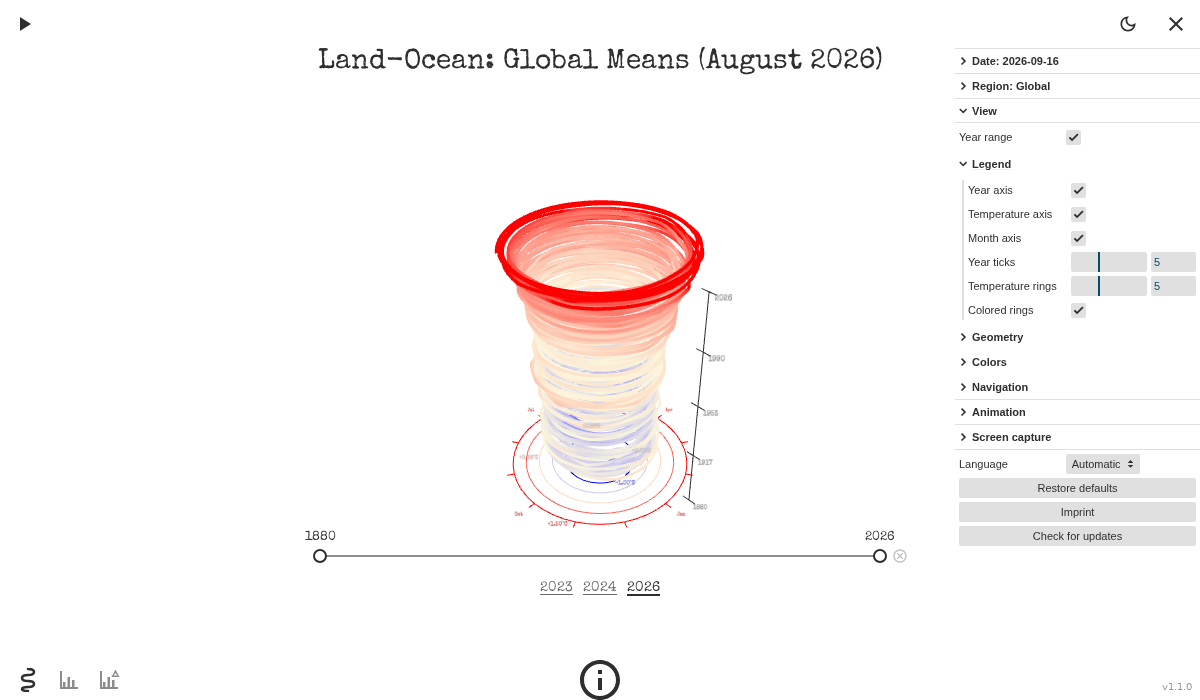
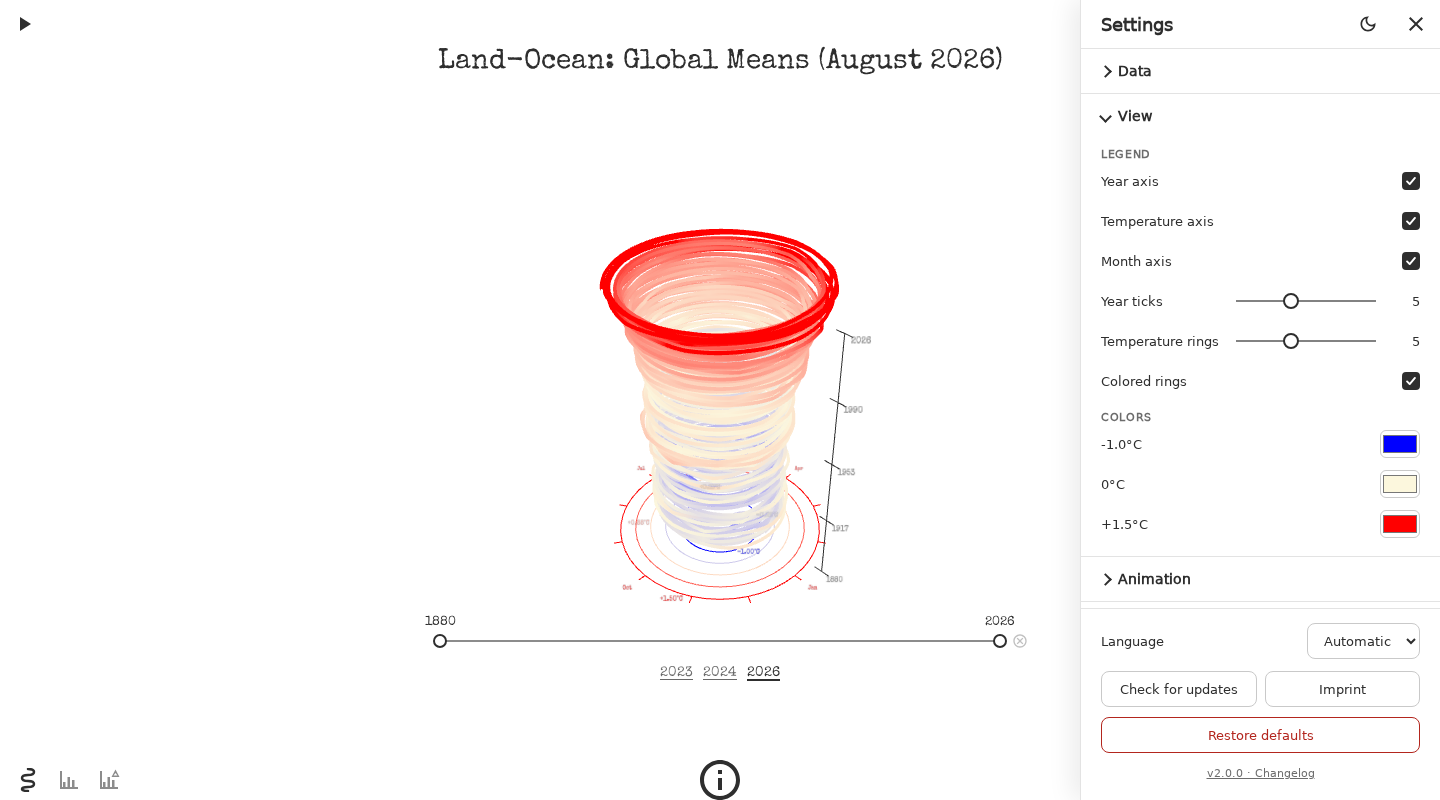
docs: README for the new settings, screenshots retaken; version 2.0.0 (v2.0.0)
Climate Helix 2.0: the native settings panel is complete. The README
gets a Settings section with a picture of the panel on a phone and
describes the new sections instead of the former lil-gui menus. All
screenshots are retaken, the new settings picture included; the legend
picture is wider so the panel does not cover the title.

diff --git a/screenshots/readme.spec.ts b/screenshots/readme.spec.ts
@@ -30,11 +30,21 @@ test('helix', async ({ page }) => {
 });
 
 test('legend settings', async ({ page }) => {
-    await page.setViewportSize({ width: 1200, height: 700 });
+    await page.setViewportSize({ width: 1440, height: 800 });
     await openApp(page);
     await openSettings(page);
+    // Data is open by default; closed, the legend and the colors fit.
+    await page.locator('#settings-panel summary', { hasText: 'Data' }).click();
     await openSection(page, 'View');
     await shoot(page, 'climate-helix-legend');
+});
+
+test('settings on a phone', async ({ page }) => {
+    await page.setViewportSize(PHONE);
+    await openApp(page);
+    await openSettings(page);
+    await openSection(page, 'Animation');
+    await shoot(page, 'climate-helix-settings');
 });
 
 test('charts', async ({ page }) => {

diff --git a/README.md b/README.md
@@ -14,11 +14,23 @@ The data starts in 1880 and, in the newest bundled snapshot, runs until August 2
 
 The use of [TrackballControls](https://threejs.org/docs/#examples/en/controls/TrackballControls) makes it possible to easily navigate through the scene, by moving around a virtual camera: drag with the left mouse button (or one finger) to rotate the helix freely in any direction, including end over end, zoom with the mouse wheel (or a pinch), and pan with the right mouse button (or two fingers). A double-click returns to the initial view. The ***Advanced*** section of the settings panel sets, under Navigation, the **Rotation speed** and **Inertia**: with inertia, the helix keeps turning for a moment after a drag; without it, it stops with the pointer.
 
-The controller UI (Icon in the upper right corner) provides options to configure the image. Not only can you choose, which region of the world you want to be visualized. With the ***View*** menu item you can show the year range slider and the legend axes, change the colors, and adjust the geometry and navigation; the ***Animation*** menu sets up the creation animation. With the ***Screen capture*** menu you can create images and download them to your computer.
+# Settings
+
+<img src="./src/images/climate-helix-settings.png" alt="Climate-helix settings on a phone" width="300">
+
+The gear icon in the upper right corner (or the `h` key) opens the settings panel: on the right side of the window, or full screen on a phone. Its sections open and close with a click on their title:
+
+* ***Data***: the snapshot and the region (Global, Northern and Southern Hemisphere).
+* ***View***: the legend around the helix and the helix colors.
+* ***Animation***: duration, loop and play on start of the creation animation.
+* ***Screen capture***: save the whole page or only the helix as an image (also with `Alt + s`).
+* ***Advanced***, closed by default: the helix's mesh (wireframe, faces, segments, radius) and the navigation (inertia, rotation speed). The defaults suit most devices.
+
+The footer stays in view: the **Language**, **Check for updates**, the **Imprint**, **Restore defaults**, and the version with a link to the changelog. The gear, now an X, or Escape closes the panel.
 
 # Dataset selector
 
-Climate Helix bundles multiple retrievals of the NASA GISS data, currently with data up to March 2023, September 2024 and August 2026 (retrieved in September 2023, October 2024 and September 2026). Buttons below the helix, labeled with the snapshot's year, let you jump directly between these snapshots, and the same choice is available as a **Date** section in the settings panel. Switching datasets keeps your selected region and year range, clamping it to whatever years are available in the newly selected snapshot.
+Climate Helix bundles multiple retrievals of the NASA GISS data, currently with data up to March 2023, September 2024 and August 2026 (retrieved in September 2023, October 2024 and September 2026). Buttons below the helix, labeled with the snapshot's year, let you jump directly between these snapshots, and the same choice is available in the settings panel's ***Data*** section. Switching datasets keeps your selected region and year range, clamping it to whatever years are available in the newly selected snapshot.
 
 # Year range slider
 
@@ -30,7 +42,7 @@ The Play/Pause button in the top-left corner of the Helix view grows the helix m
 
 # Remembered settings
 
-The app remembers your settings and where you left off: the dataset, region and year range, the ***View*** and ***Animation*** settings, changed helix colors, the theme (once you switch it; until then it follows your system), the active view, the camera angle and zoom, the Diff view's baseline, and the chart checkboxes. They are kept in your browser's Local Storage and never leave your device. When a newer data snapshot ships, the app opens on it instead of the snapshot you last chose. **Restore defaults** in the settings panel forgets all of this and reloads the app.
+The app remembers your settings and where you left off: the dataset, region and year range, the ***View***, ***Animation*** and ***Advanced*** settings, changed helix colors, the theme (once you switch it; until then it follows your system), the active view, the camera angle and zoom, the Diff view's baseline, and the chart checkboxes. They are kept in your browser's Local Storage and never leave your device. When a newer data snapshot ships, the app opens on it instead of the snapshot you last chose. **Restore defaults** in the settings panel forgets all of this and reloads the app.
 
 # Language
 
@@ -42,13 +54,13 @@ The app is available in English and German. It follows your browser's language: 
 
 The first time the app opens after an update, it shows what's new since the version you used last. Versions without a visible change (tests, documentation) are left out, and the **Full changelog** button shows every version. It appears once per version: not again after a reload, not after **Restore defaults**, and not on your very first visit.
 
-Click the version number in the lower right corner to see the full changelog at any time. Each version lists its date and links to its commit on GitHub. Close it, like the imprint, with the X button at the bottom or with Escape. The changelog is the same as [CHANGELOG.md](CHANGELOG.md).
+Click the version number in the lower right corner, or in the settings panel's footer, to see the full changelog at any time. Each version lists its date and links to its commit on GitHub. Close it, like the imprint, with the X button at the bottom or with Escape. The changelog is the same as [CHANGELOG.md](CHANGELOG.md).
 
 # Legend
 
 ![Climate-helix with legend](./src/images/climate-helix-legend.png)
 
-The ***View > Legend*** section in the settings panel (shown open above) adds optional reference axes around the helix: a **Year axis** marking the year range along the side, a **Temperature axis** of concentric rings labeling anomaly values from -1.0°C to +1.5°C, and a **Month axis** labeling Jan/Apr/Jul/Oct around the outer rim. The number of year ticks and temperature rings shown is configurable.
+The legend in the settings panel's ***View*** section (shown open above) adds optional reference axes around the helix: a **Year axis** marking the year range along the side, a **Temperature axis** of concentric rings labeling anomaly values from -1.0°C to +1.5°C, and a **Month axis** labeling Jan/Apr/Jul/Oct around the outer rim. The number of year ticks and temperature rings shown is configurable.
 
 # Charts
 

diff --git a/ROADMAP.md b/ROADMAP.md
@@ -67,7 +67,7 @@ The creation animation is done (v0.10.0, see Completed).
 
 ### Native settings panel (a 2.x candidate)
 
-In progress on the branch `feature/native-settings`, following the mock (three artboards: desktop, phone, Advanced open), towards 2.0.0: step 1, the native panel with the app functions in its footer and lil-gui inside, is done (v1.2.0); step 2, native sections (Data, View, Animation, Screen capture) and lil-gui only for the geometry in a collapsed Advanced section, is done (v1.3.0). **Decided in v1.4.0: lil-gui is gone.** Its last five controls (Wireframe, Faces, the segment counts, the radius factor) became native in the collapsed Advanced section; a native control is as quick to add as a lil-gui one, the section already marks them as technical, and one look, keyboard use and the translations now cover the whole panel. Should quick experiments need lil-gui again, it could return as a development-only panel (e.g. `?dev`), not in the app. Step 3 revises the README and the screenshots and makes it 2.0.0. Decided with the mock: Advanced visible but collapsed, short region labels in the segmented control (Global / North / South), the snapshot buttons below the helix stay, and the footer shows the version and the changelog.
+In progress on the branch `feature/native-settings`, following the mock (three artboards: desktop, phone, Advanced open), towards 2.0.0: step 1, the native panel with the app functions in its footer and lil-gui inside, is done (v1.2.0); step 2, native sections (Data, View, Animation, Screen capture) and lil-gui only for the geometry in a collapsed Advanced section, is done (v1.3.0). **Decided in v1.4.0: lil-gui is gone.** Its last five controls (Wireframe, Faces, the segment counts, the radius factor) became native in the collapsed Advanced section; a native control is as quick to add as a lil-gui one, the section already marks them as technical, and one look, keyboard use and the translations now cover the whole panel. Should quick experiments need lil-gui again, it could return as a development-only panel (e.g. `?dev`), not in the app. Step 3, the README, the screenshots and version 2.0.0, is done. Decided with the mock: Advanced visible but collapsed, short region labels in the segmented control (Global / North / South), the snapshot buttons below the helix stay, and the footer shows the version and the changelog.
 
 The settings panel is built with lil-gui (earlier dat.gui). That is still a sound choice (decided in v1.0.1): lil-gui is maintained, small, dependency-free, used by the three.js examples and binds directly to the `SETTINGS` object. Tweakpane would be the newer tweak panel with more polished controls, but switching would only exchange one developer panel for another at the cost of rewriting `Settings.ts` and the e2e selectors. Leva needs React; Theatre.js is for keyframed animation.
 

diff --git a/CHANGELOG.md b/CHANGELOG.md
@@ -1,6 +1,12 @@
 # Changelog
 
-## v1.4.0 · 2026-09-27
+## v2.0.0 · 2026-09-27
+
+Climate Helix 2.0 has new settings. The gear icon in the upper right corner opens them as a panel on the right side of the window, or full screen on a phone. Sections that open with a click hold the settings: **Data** (snapshot and region), **View** (legend and colors), **Animation**, **Screen capture** and, closed by default, **Advanced** (the helix's mesh and navigation). A footer that stays in view holds the language, the update check, the imprint, Restore defaults and the changelog. The controls are larger, work with touch, mouse and keyboard, follow the light and dark theme, and are available in English and German.
+
+* Revise the README for the new settings: a Settings section with a picture of the panel on a phone, updated descriptions, and all screenshots retaken.
+
+## v1.4.0 · 2026-09-27 · [3910a07](https://github.com/mkuehne-git/climate-helix/commit/3910a07)
 
 * Remove the **Year range** switch from the View settings, which hid the year slider and the snapshot buttons below the helix: they are always shown now.
 * The **Advanced** section of the settings has ordinary controls too, like the rest of the panel: Wireframe and Faces as switches, and sliders for the monthly and radius segments and the radius factor. The app no longer uses lil-gui.

diff --git a/.claude/skills/screenshots/SKILL.md b/.claude/skills/screenshots/SKILL.md
@@ -5,12 +5,13 @@ description: Retake the Climate Helix README screenshots in src/images/ with Pla
 
 # Screenshots
 
-The README shows five screenshots in `src/images/`. `npm run screenshots` retakes them all with Playwright (`playwright.screenshots.config.ts`, specs in `screenshots/readme.spec.ts`), always in the light theme.
+The README shows six screenshots in `src/images/`. `npm run screenshots` retakes them all with Playwright (`playwright.screenshots.config.ts`, specs in `screenshots/readme.spec.ts`), always in the light theme.
 
 | Image | Shows | Viewport |
 | --- | --- | --- |
 | `climate-helix.png` | Helix view, default settings | 390 x 844 |
-| `climate-helix-legend.png` | Helix with the settings panel open at View > Legend | 1200 x 700 |
+| `climate-helix-legend.png` | Helix with the settings panel open at View | 1440 x 800 |
+| `climate-helix-settings.png` | Settings panel on a phone, Data and Animation open | 390 x 844 |
 | `climate-helix-charts.png` | Charts view | 390 x 844 |
 | `climate-helix-diff.png` | Diff view | 390 x 844 |
 | `climate-helix-whats-new.png` | What's new, as seen when updating from v0.11.1 | 390 x 844 |
